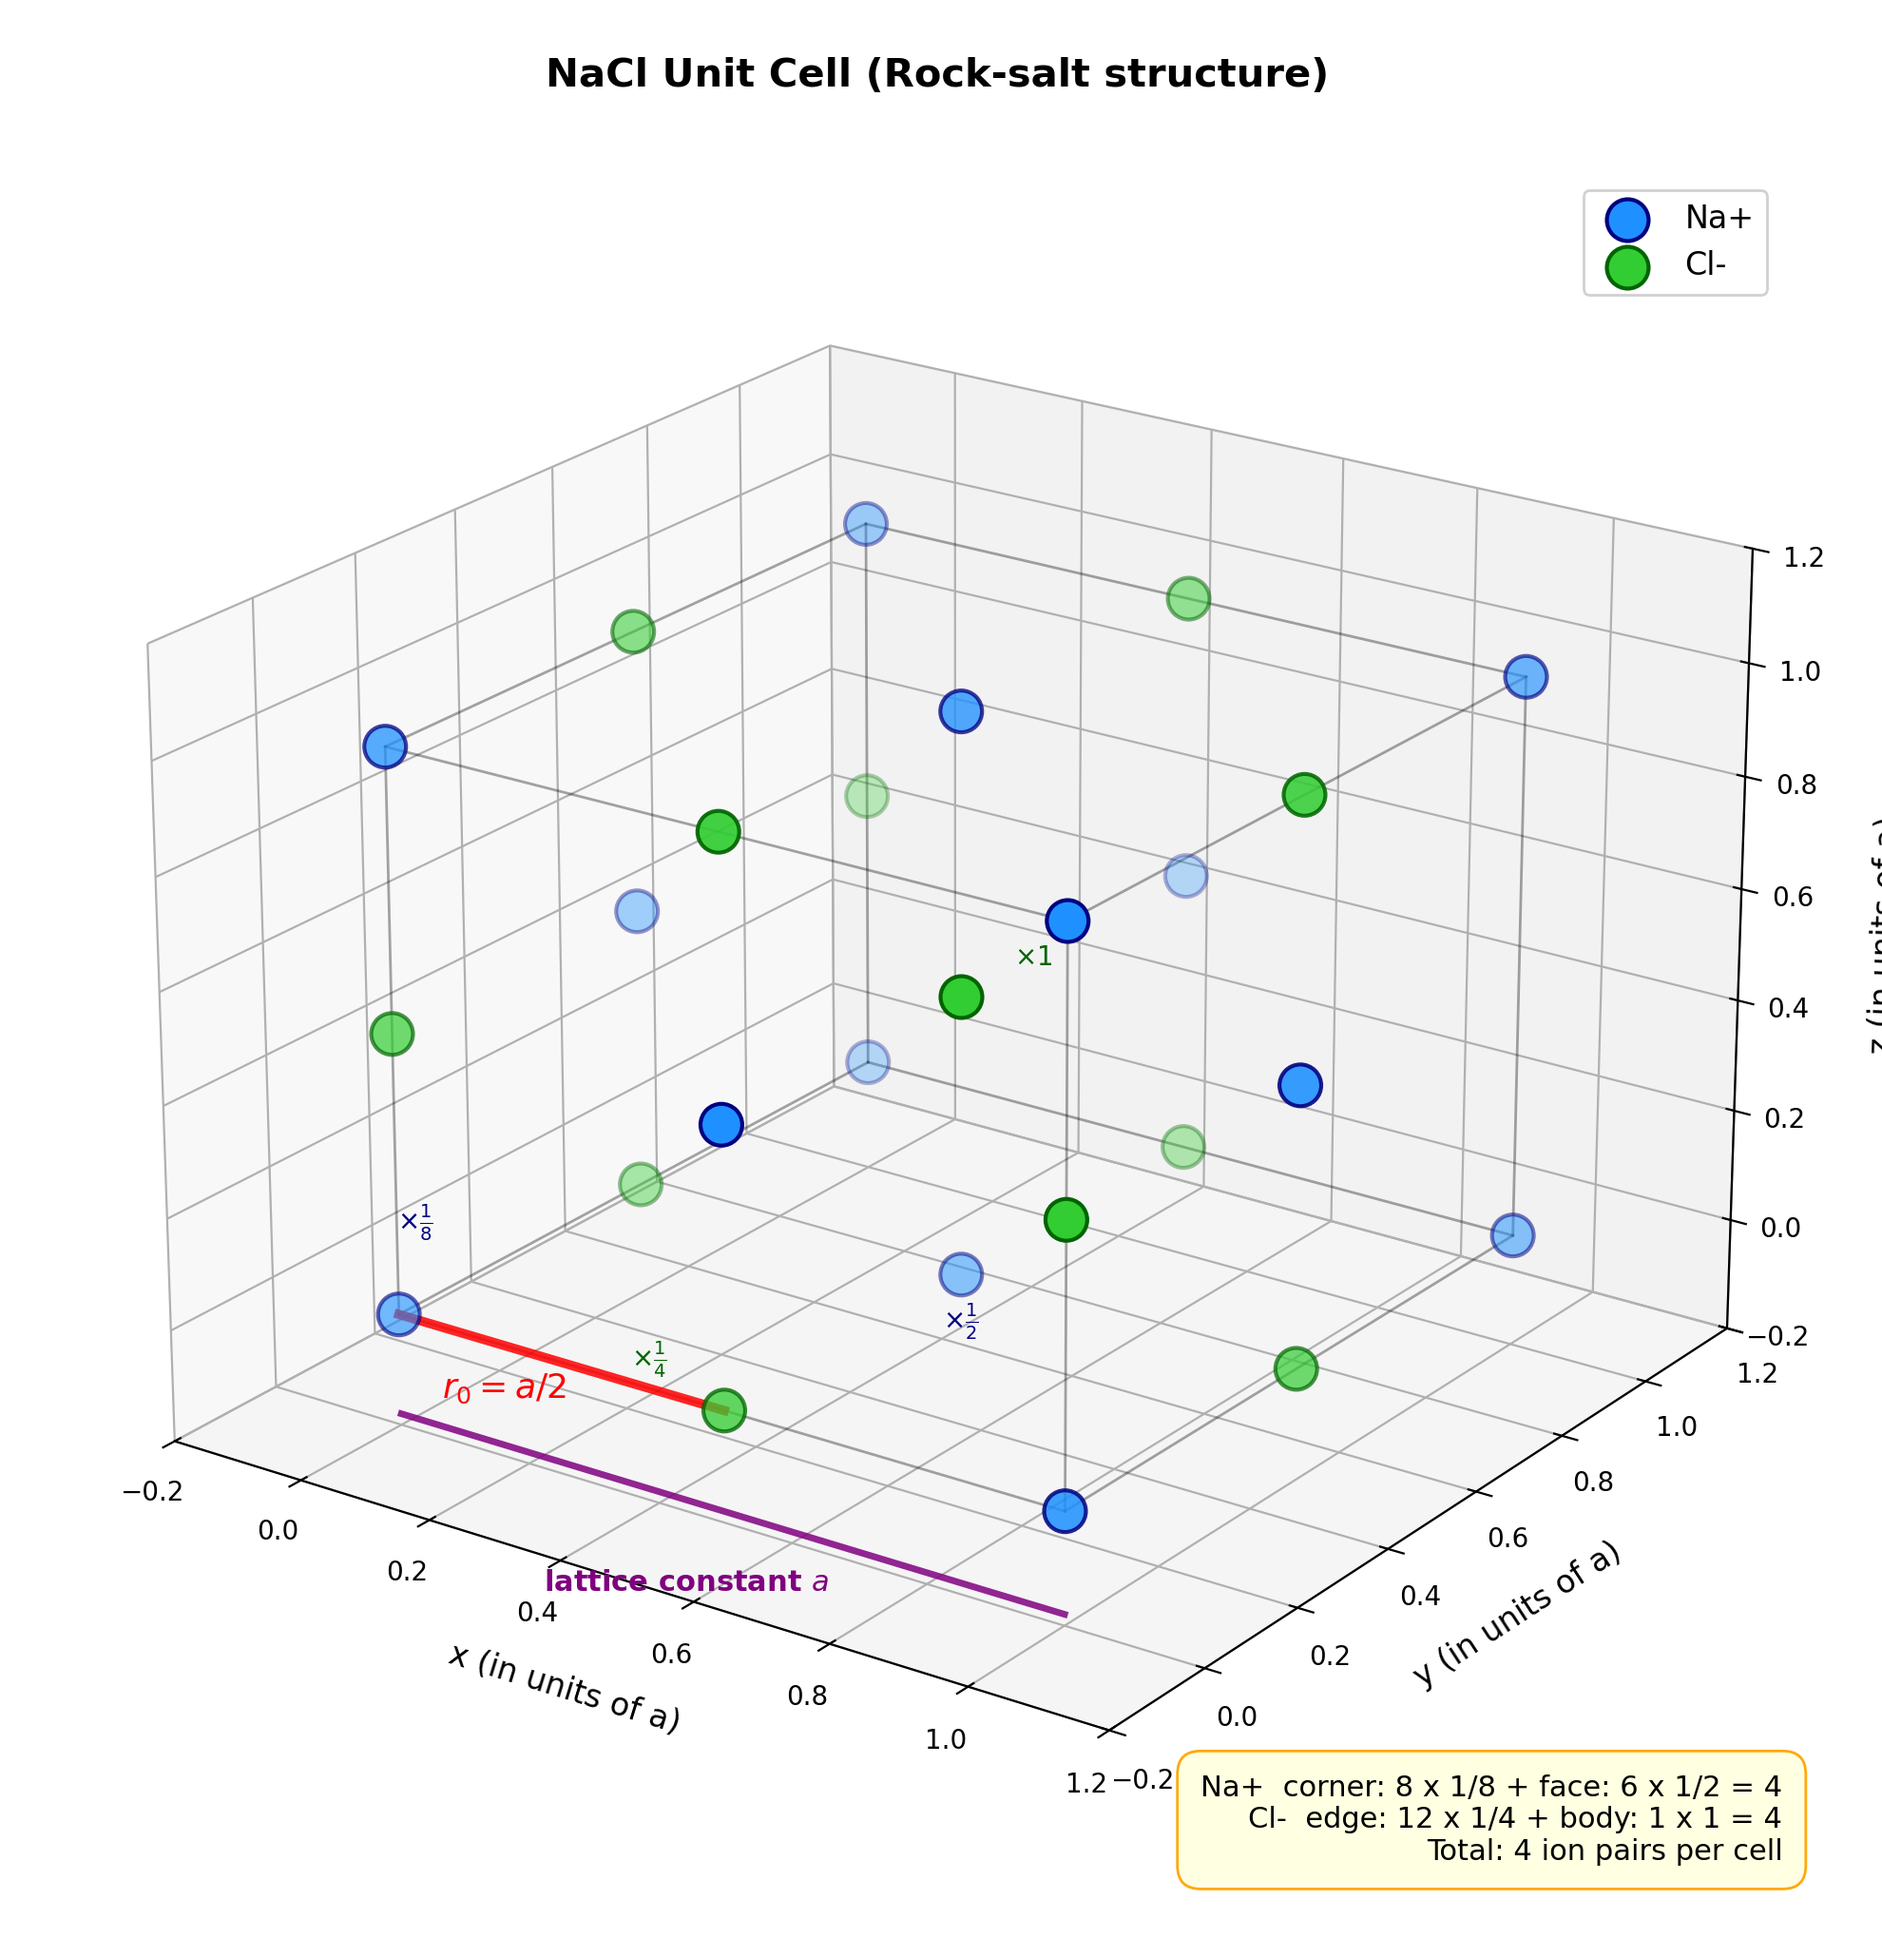
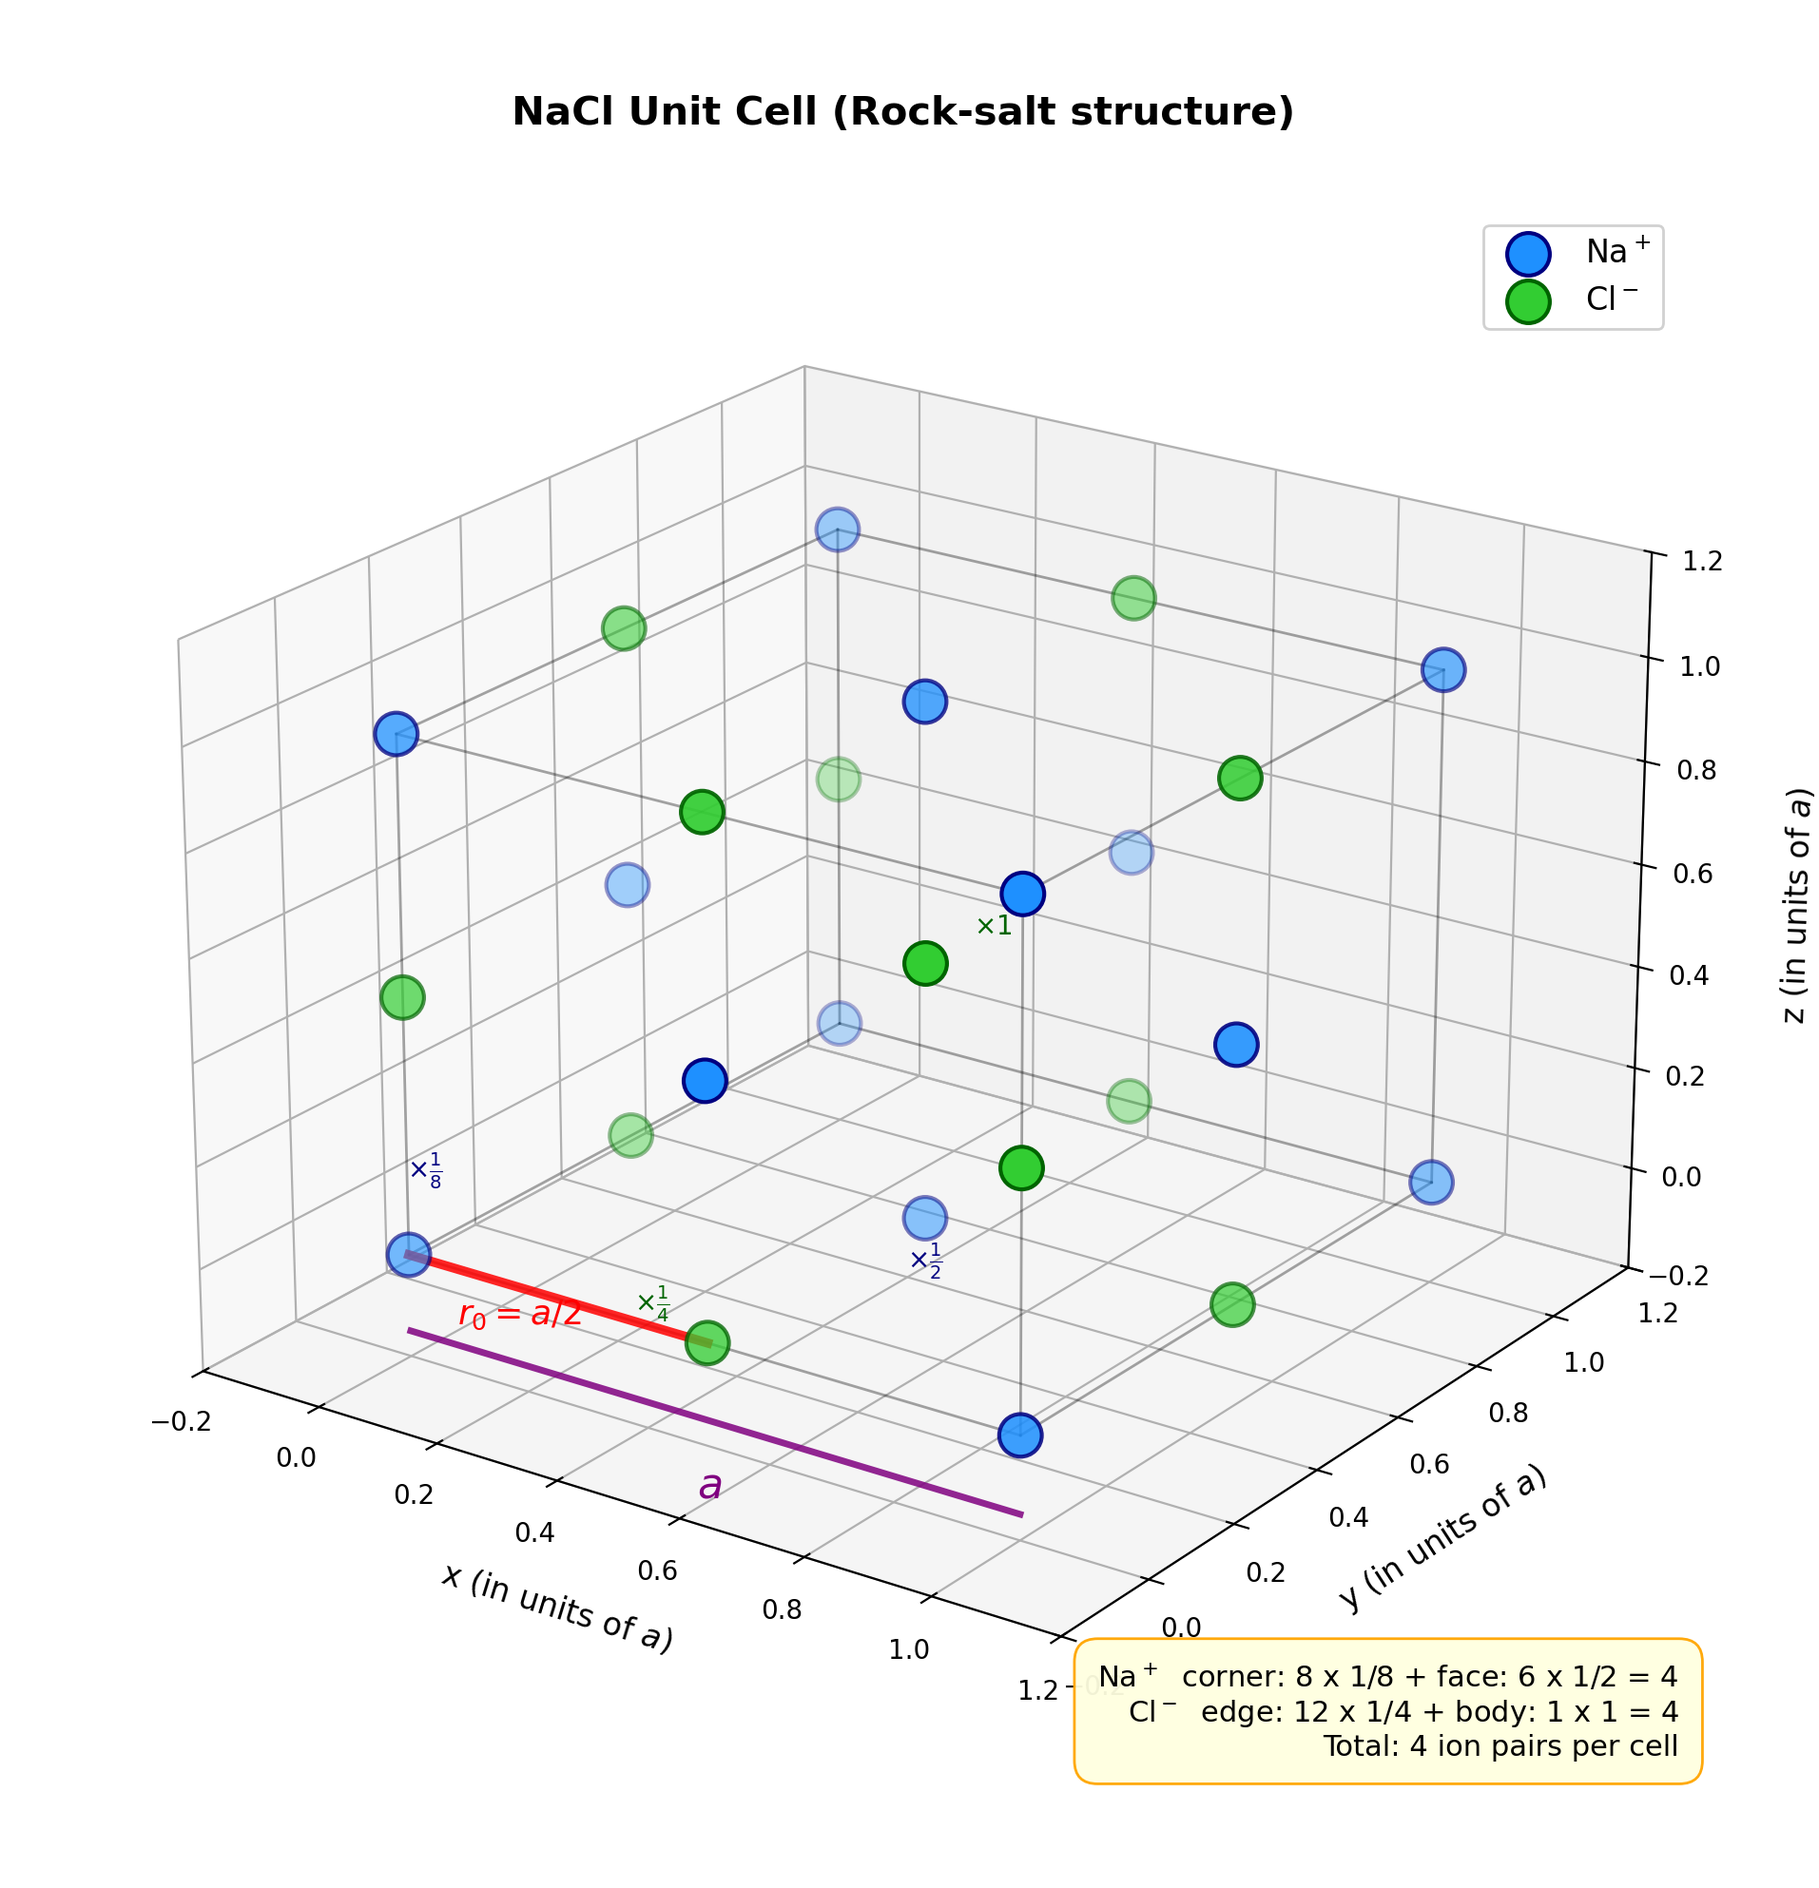
add(sec36): 离子晶体压缩系数推导；fix(sec35): 调整NaCl晶胞图宽度避免截断

diff --git a/tex/exam-prep/sec36.tex b/tex/exam-prep/sec36.tex
@@ -1,0 +1,182 @@
+% ============================================================
+% Section 36: 离子晶体的压缩系数
+% ============================================================
+\section{固体理论：离子晶体的压缩系数——从势能到体积模量}
+\label{sec:compressibility}
+
+\begin{tipbox}{关键词标签}
+压缩系数 · 体积弹性模量 · 离子晶体 · Born-Mayer 势 · 几何因子 · NaCl 结构 · CsCl 结构
+\end{tipbox}
+
+\begin{modelbox}
+假设离子晶体中离子的总相互作用势能为
+\[
+  U(r) = -N\left[\frac{Me^2}{4\pi\varepsilon_0 r} - Z\lambda\,e^{-r/\rho}\right],
+\]
+其中 $\lambda$, $\rho$ 为常数，$Z$ 为配位数。求晶体的压缩系数。
+\end{modelbox}
+
+\vspace{0.3em}
+\begin{insightbox}{结论预告}
+\[
+  \boxed{ B = \frac{1}{K} = \frac{18\pi\varepsilon_0 V_0}{Me^2}\left(\frac{1}{r_0} - \frac{1}{2\rho}\right)^{-1} }.
+\]
+本题是 \ref{sec:nacl-binding-energy} 的姊妹题：那边已知 $K$ 求 $n$，这边已知势函数形式求 $K$（进而求压缩系数 $B=1/K$）。核心技巧仍然是\textbf{平衡条件化简二阶导}。
+\end{insightbox}
+
+\subsection{压缩系数与弹性模量的关系}
+
+压缩系数 $B$ 定义为体积弹性模量 $K$ 的倒数：
+\[
+  B = \frac{1}{K}.
+\]
+
+体积弹性模量的一般公式：
+\[
+  K = V_0\left(\frac{\partial^2 U}{\partial V^2}\right)_{V_0}
+    = V_0\left(\frac{\dd r}{\dd V}\right)^2_{r_0}
+      \left(\frac{\partial^2 U}{\partial r^2}\right)_{r_0}. \tag{1}
+\]
+
+\subsection{晶体体积与原子间距的关系}
+
+设相邻离子间距为 $r$，晶体体积可表示为
+\[
+  V = N\alpha r^3,
+\]
+其中 $\alpha$ 为与晶体结构有关的几何因子。
+
+\begin{modelbox}{两种典型结构的几何因子}
+\textbf{NaCl 型结构}：
+\begin{itemize}[nosep]
+  \item 晶胞边长 $a = 2r$；
+  \item 一个晶胞含 $4$ 对离子（$8$ 个离子）；
+  \item $V = \dfrac{N}{4}\cdot (2r)^3 = 2Nr^3$，即 $\bm{\alpha = 2}$。
+\end{itemize}
+
+\textbf{CsCl 型结构}：
+\begin{itemize}[nosep]
+  \item 晶胞边长 $a = \dfrac{2}{\sqrt{3}}r$（体对角线 = $2r$）；
+  \item 一个晶胞含 $1$ 对离子（$2$ 个离子）；
+  \item $V = N\cdot\left(\dfrac{2r}{\sqrt{3}}\right)^3 = \dfrac{8\sqrt{3}}{9}Nr^3$，即 $\bm{\alpha = \dfrac{8\sqrt{3}}{9}}$。
+\end{itemize}
+\end{modelbox}
+
+平衡时体积为
+\[
+  V_0 = N\alpha r_0^3. \tag{2}
+\]
+
+对体积求导得
+\[
+  \left(\frac{\dd V}{\dd r}\right)_{r_0} = 3N\alpha r_0^2
+  \quad\Longrightarrow\quad
+  \left(\frac{\dd r}{\dd V}\right)_{r_0} = \frac{1}{3N\alpha r_0^2}. \tag{3}
+\]
+
+\subsection{利用平衡条件化简二阶导数}
+
+平衡条件为势能的一阶导数为零：
+\[
+  \left.\frac{\partial U}{\partial r}\right|_{r_0}
+  = N\left[\frac{Me^2}{4\pi\varepsilon_0 r_0^2} - \frac{Z\lambda}{\rho}\,e^{-r_0/\rho}\right] = 0.
+\]
+
+由此得到关键关系式：
+\[
+  \boxed{ e^{-r_0/\rho} = \frac{Me^2\rho}{4\pi\varepsilon_0 Z\lambda r_0^2} }. \tag{*}
+\]
+
+\begin{tipbox}{符号检查}
+原题图片中此处有一处笔误，写成了 $Me\,e^2$。正确的应为 $Me^2$（马德隆常数 $M$ 乘以 $e^2$）。考场上若发现此类矛盾，应以物理自洽性为准。
+\end{tipbox}
+
+\subsubsection{求二阶导数}
+
+\[
+  \frac{\partial^2 U}{\partial r^2}
+  = N\left[-\frac{2Me^2}{4\pi\varepsilon_0 r^3} + \frac{Z\lambda}{\rho^2}\,e^{-r/\rho}\right].
+\]
+
+在 $r = r_0$ 处，代入平衡关系式 $(*)$：
+\begin{align*}
+  \left.\frac{\partial^2 U}{\partial r^2}\right|_{r_0}
+  &= N\left[-\frac{Me^2}{2\pi\varepsilon_0 r_0^3}
+       + \frac{1}{\rho^2}\cdot\frac{Me^2\rho}{4\pi\varepsilon_0 r_0^2}\right] \\
+  &= \frac{NMe^2}{4\pi\varepsilon_0 r_0^2}\left(-\frac{2}{r_0} + \frac{1}{\rho}\right) \\
+  &= \frac{NMe^2}{4\pi\varepsilon_0 r_0^2}\left(\frac{1}{\rho} - \frac{2}{r_0}\right). \tag{4}
+\end{align*}
+
+\subsection{计算弹性模量 $K$ 与压缩系数 $B$}
+
+将 (2)、(3)、(4) 代入 (1) 式：
+\begin{align*}
+  K &= (N\alpha r_0^3)\cdot\left(\frac{1}{3N\alpha r_0^2}\right)^2
+      \cdot\frac{NMe^2}{4\pi\varepsilon_0 r_0^2}\left(\frac{1}{\rho} - \frac{2}{r_0}\right) \\
+    &= \frac{N\alpha r_0^3}{9N^2\alpha^2 r_0^4}
+      \cdot\frac{NMe^2}{4\pi\varepsilon_0 r_0^2}\left(\frac{1}{\rho} - \frac{2}{r_0}\right) \\
+    &= \frac{Me^2}{36\pi\varepsilon_0\alpha r_0^3}
+      \left(\frac{1}{\rho} - \frac{2}{r_0}\right).
+\end{align*}
+
+提取因子 $2$：
+\[
+  \frac{1}{\rho} - \frac{2}{r_0} = 2\left(\frac{1}{2\rho} - \frac{1}{r_0}\right)
+  = -2\left(\frac{1}{r_0} - \frac{1}{2\rho}\right).
+\]
+
+因此
+\[
+  K = \frac{Me^2}{18\pi\varepsilon_0\alpha r_0^3}
+      \left(\frac{1}{2\rho} - \frac{1}{r_0}\right).
+\]
+
+\begin{insightbox}{关于符号的物理检验}
+稳定平衡要求 $K > 0$。由于 $\rho \ll r_0$（排斥力程极短），有
+\[
+  \frac{1}{r_0} - \frac{1}{2\rho} < 0
+  \quad\Longrightarrow\quad
+  \frac{1}{2\rho} - \frac{1}{r_0} > 0.
+\]
+因此 $K$ 表达式中的括号内为正，$K > 0$，符合物理要求。
+
+\textbf{原题图片中的笔误}：最后一步写成了 $K = -\dfrac{Me^2}{18V_0\pi\varepsilon_0}\cdots$，多了负号。这是推导过程中的符号错误，应予以修正。弹性模量在稳定平衡下\textbf{必须为正}。
+\end{insightbox}
+
+利用 $V_0 = N\alpha r_0^3$，可把 $\alpha r_0^3$ 替换为 $V_0/N$：
+\[
+  K = \frac{NMe^2}{18\pi\varepsilon_0 V_0}
+      \left(\frac{1}{2\rho} - \frac{1}{r_0}\right)
+    = \frac{NMe^2}{18\pi\varepsilon_0 V_0}
+      \cdot\frac{-1}{\left(\dfrac{1}{r_0} - \dfrac{1}{2\rho}\right)}.
+\]
+
+取倒数得压缩系数：
+\[
+  \boxed{ B = \frac{1}{K}
+         = \frac{18\pi\varepsilon_0 V_0}{NMe^2}
+           \left(\frac{1}{r_0} - \frac{1}{2\rho}\right)^{-1} }.
+\]
+
+\begin{insightbox}{与 \ref{sec:nacl-binding-energy} 的对比}
+\begin{center}
+\renewcommand{\arraystretch}{1.5}
+\begin{tabular}{|l|c|c|}
+\hline
+\textbf{题目} & \textbf{已知} & \textbf{求} \\
+\hline
+sec35 (NaCl 结合能) & 比重 $D$、弹性模量 $K$ & 结合能 $U_0$ \\
+sec36 (压缩系数) & 势函数 $U(r)$ & 压缩系数 $B = 1/K$ \\
+\hline
+\end{tabular}
+\end{center}
+
+两道题的\textbf{共同核心}：
+\begin{enumerate}[nosep]
+  \item 都用到 $V = N\alpha r^3$ 的体积-间距关系；
+  \item 都用到平衡条件化简二阶导数；
+  \item 最终都出现 $\left(\dfrac{1}{r_0} - \dfrac{1}{2\rho}\right)$ 形式的结构因子。
+\end{enumerate}
+
+区别仅在于 sec35 用\textbf{幂律排斥} $B/r^n$，sec36 用\textbf{指数排斥} $Z\lambda e^{-r/\rho}$。指数形式的化简更优雅——平衡条件直接给出 $e^{-r_0/\rho}$ 的显式表达式，避免了 sec35 中需要先求 $n$ 再代入的繁琐步骤。
+\end{insightbox}

diff --git a/tex/exam-prep/sec35.tex b/tex/exam-prep/sec35.tex
@@ -132,7 +132,7 @@ $N$ 是离子对数（也是正离子数或负离子数）。
 
 \begin{figure}[htbp]
 \centering
-\includegraphics[width=0.85\textwidth]{images/nacl_unit_cell.png}
+\includegraphics[width=0.78\textwidth]{images/nacl_unit_cell.png}
 \caption{NaCl 晶胞三维示意图。蓝色球为 Na$^+$（占据角和面心），绿色球为 Cl$^-$（占据棱中点和体心）。红色箭头标出最近邻距离 $r_0 = a/2$，紫色箭头标出晶胞边长 $a$。图中同时标注了分摊法计数时各位置的权重。}
 \label{fig:nacl-unit-cell}
 \end{figure}

diff --git a/tex/exam-prep/ustc-phd-prep.tex b/tex/exam-prep/ustc-phd-prep.tex
@@ -4764,6 +4764,8 @@ Optical Bloch & $H=\frac{\Delta}{2}\sigma_z+\frac{\Omega}{2}\sigma_x$ + $\gamma$
 \newpage
 \input{sec35}
 \newpage
+\input{sec36}
+\newpage
 \section{固体理论：约瑟夫森结与超导量子比特}
 \label{sec:josephson}
 
